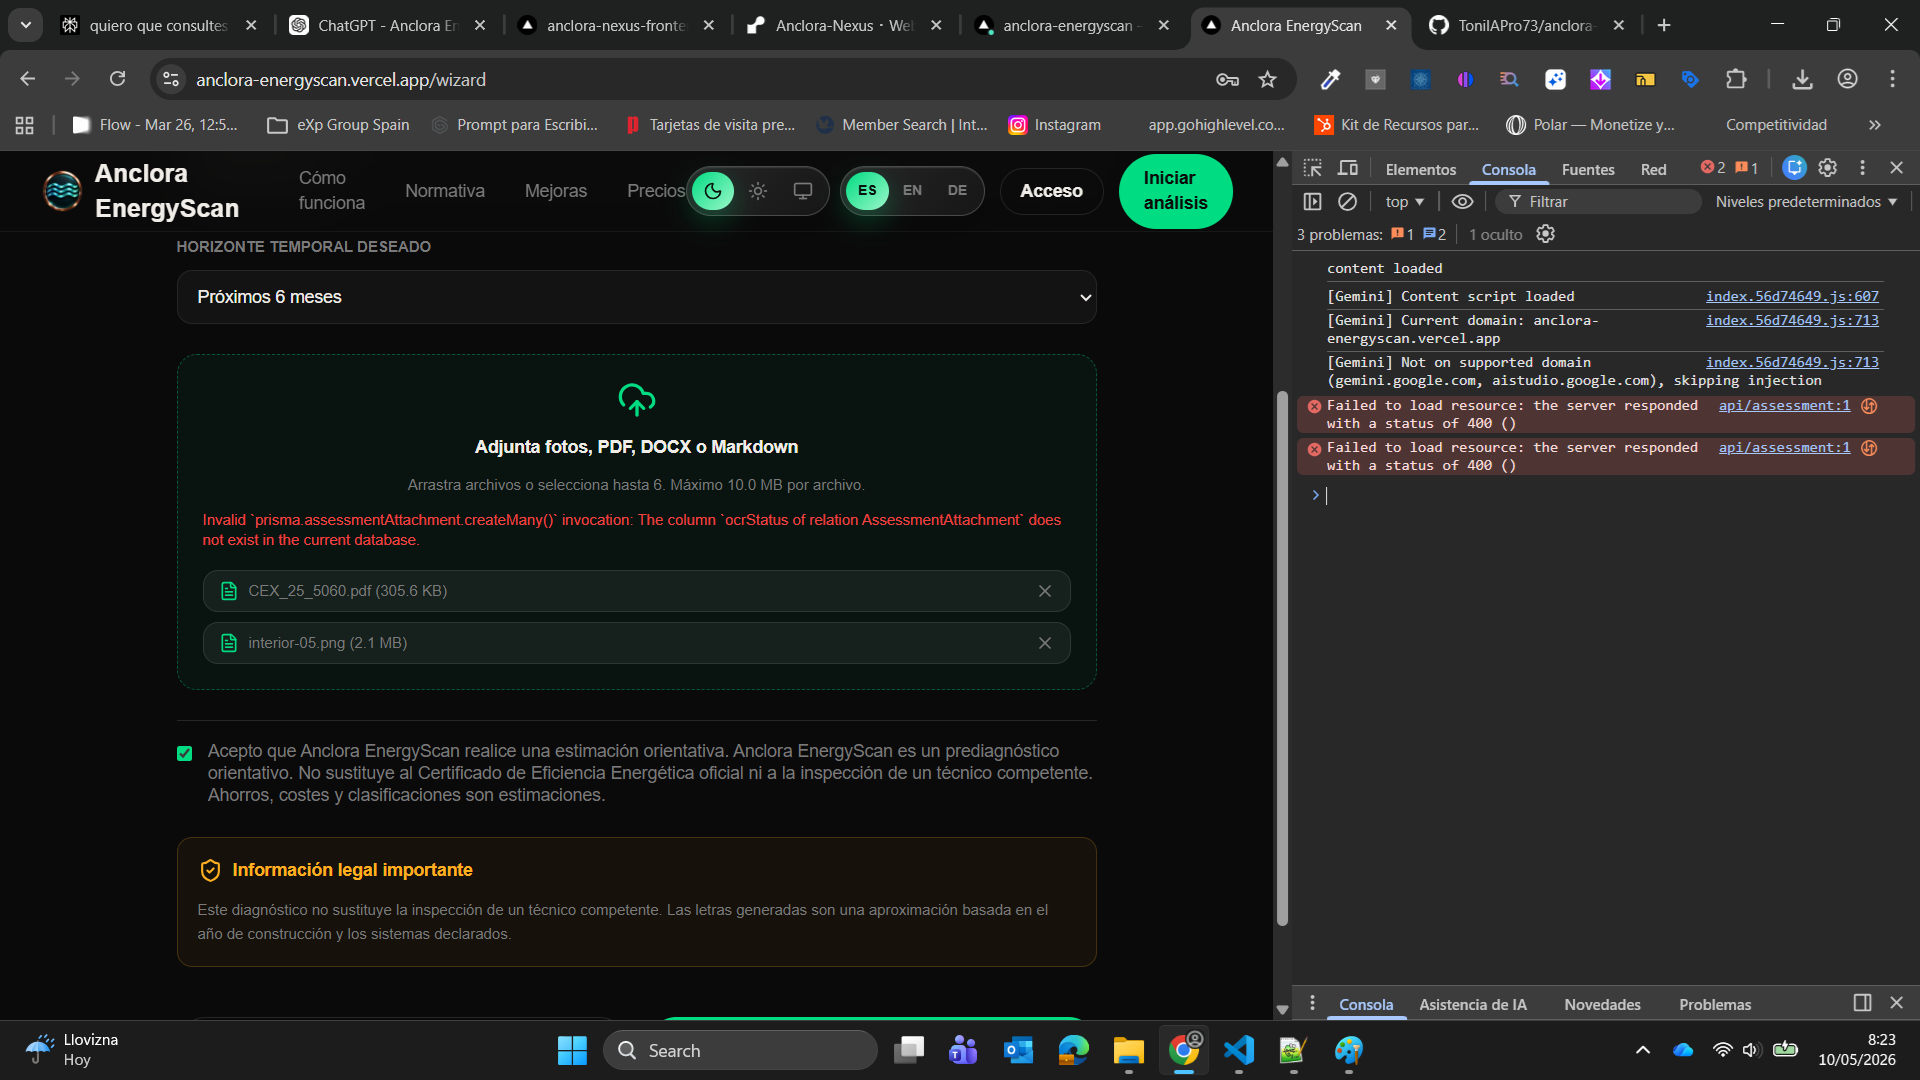
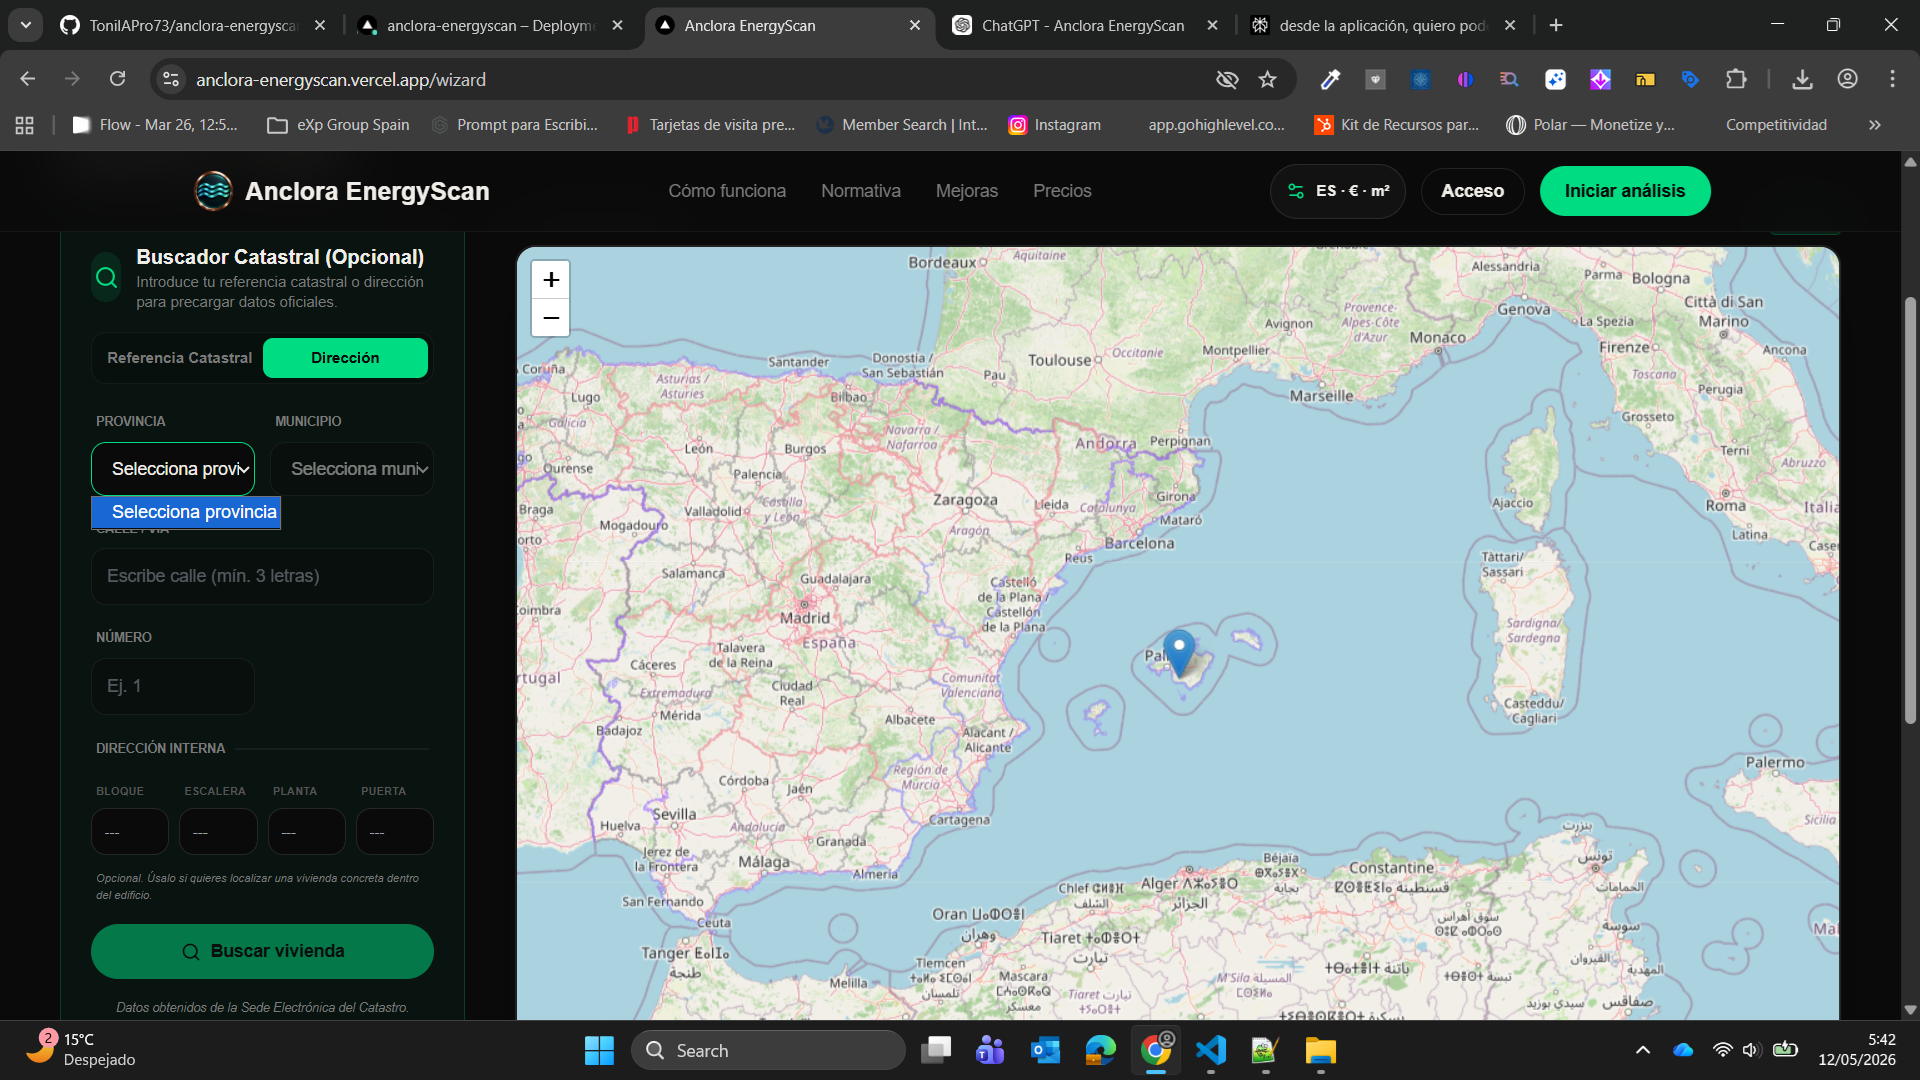
fix: resolve empty province dropdown and improve search dropdowns UX

diff --git a/tests/catastro-normalizer.test.ts b/tests/catastro-normalizer.test.ts
@@ -1,4 +1,4 @@
-import { normalizeCadastralMatch, parseCadastralList } from '@/lib/catastro/normalize';
+import { normalizeCadastralMatch, parseCadastralList, extractTagsValues } from '@/lib/catastro/normalize';
 
 const MOCK_XML_SINGLE = `
 <bico>
@@ -19,67 +19,23 @@ const MOCK_XML_SINGLE = `
 </bico>
 `;
 
-const MOCK_XML_LIST = `
-<rcdnp>
-  <rc>
-    <pc1>6485534</pc1>
-    <pc2>DD6768E</pc2>
-    <car>0003</car>
-    <cc1>Q</cc1>
-    <cc2>D</cc2>
-  </rc>
-  <dt>
-    <np>ILLES BALEARS</np>
-    <nm>PALMA</nm>
-    <locs>
-      <lous>
-        <lourb>
-          <dir>
-            <tv>CL</tv>
-            <nv>MIQUEL ROSSELLO I ALEMANY</nv>
-            <pnp>48</pnp>
-          </dir>
-          <loint>
-            <pt>01</pt>
-            <pu>B</pu>
-          </loint>
-          <dp>07015</dp>
-        </lourb>
-      </lous>
-    </locs>
-  </dt>
-  <bi>
-    <ldbi>RESIDENCIAL</ldbi>
-    <scons>67</scons>
-    <ant>2003</ant>
-  </bi>
-</rcdnp>
+const MOCK_PROVINCES = `
+<provinciero>
+  <prov><np>MADRID</np></prov>
+  <prov><np>BARCELONA</np></prov>
+</provinciero>
 `;
 
 describe('Catastro Normalizer', () => {
+  it('should extract tag values correctly', () => {
+    const values = extractTagsValues(MOCK_PROVINCES, 'np');
+    expect(values).toEqual(['MADRID', 'BARCELONA']);
+  });
+
   it('should normalize a single cadastral match from bico with full RC', () => {
     const match = normalizeCadastralMatch(MOCK_XML_SINGLE);
     expect(match.cadastralReference).toBe('1234567AB1234C0001XA');
     expect(match.parcelReference).toBe('1234567AB1234C');
     expect(match.province).toBe('MADRID');
-    expect(match.municipality).toBe('MADRID');
-    expect(match.address).toBe('CALLE MAYOR, 1');
-    expect(match.propertyUse).toBe('RESIDENCIAL');
-    expect(match.surfaceBuiltM2).toBe(120);
-    expect(match.yearBuilt).toBe(1990);
-  });
-
-  it('should parse a list of cadastral matches with internal address', () => {
-    const matches = parseCadastralList(MOCK_XML_LIST);
-    expect(matches).toHaveLength(1);
-    const match = matches[0];
-    expect(match.cadastralReference).toBe('6485534DD6768E0003QD');
-    expect(match.parcelReference).toBe('6485534DD6768E');
-    expect(match.address).toBe('CL MIQUEL ROSSELLO I ALEMANY, 48');
-    expect(match.floor).toBe('01');
-    expect(match.door).toBe('B');
-    expect(match.surfaceBuiltM2).toBe(67);
-    expect(match.yearBuilt).toBe(2003);
-    expect(match.propertyUse).toBe('RESIDENCIAL');
   });
 });

diff --git a/src/components/CadastreSearch.tsx b/src/components/CadastreSearch.tsx
@@ -24,6 +24,8 @@ export function CadastreSearch({ onConfirm, onLocationChange, onMatchSelect, onA
   // Address search state
   const [provinces, setProvinces] = useState<Province[]>([]);
   const [municipalities, setMunicipalities] = useState<Municipality[]>([]);
+  const [provincesLoading, setProvincesLoading] = useState(false);
+  const [municipalitiesLoading, setMunicipalitiesLoading] = useState(false);
   const [selectedProvince, setSelectedProvince] = useState('');
   const [selectedMunicipality, setSelectedMunicipality] = useState('');
   const [streetQuery, setStreetQuery] = useState('');
@@ -47,6 +49,7 @@ export function CadastreSearch({ onConfirm, onLocationChange, onMatchSelect, onA
   }, [detailMatch, onMatchSelect]);
 
   const fetchProvinces = useCallback(async () => {
+    setProvincesLoading(true);
     try {
       const res = await fetch('/api/catastro/provinces');
       if (res.ok) {
@@ -55,6 +58,8 @@ export function CadastreSearch({ onConfirm, onLocationChange, onMatchSelect, onA
       }
     } catch (err) {
       console.error('Failed to fetch provinces', err);
+    } finally {
+      setProvincesLoading(false);
     }
   }, []);
 
@@ -95,6 +100,7 @@ export function CadastreSearch({ onConfirm, onLocationChange, onMatchSelect, onA
   }, [selectedProvince, selectedMunicipality, selectedStreet, streetQuery, number, onAddressChange]);
 
   async function fetchMunicipalities(province: string) {
+    setMunicipalitiesLoading(true);
     try {
       const res = await fetch(`/api/catastro/municipalities?province=${encodeURIComponent(province)}`);
       if (res.ok) {
@@ -103,6 +109,8 @@ export function CadastreSearch({ onConfirm, onLocationChange, onMatchSelect, onA
       }
     } catch (err) {
       console.error('Failed to fetch municipalities', err);
+    } finally {
+      setMunicipalitiesLoading(false);
     }
   }
 
@@ -255,30 +263,40 @@ export function CadastreSearch({ onConfirm, onLocationChange, onMatchSelect, onA
             <div className="grid grid-cols-1 sm:grid-cols-2 gap-3">
               <div className="space-y-1.5">
                 <label className="text-[10px] font-bold uppercase text-[#7A7A7A] ml-1">Provincia</label>
-                <select
-                  value={selectedProvince}
-                  onChange={(e) => setSelectedProvince(e.target.value)}
-                  className="w-full bg-[#0A0A0A] border border-[#262626] rounded-xl p-3 text-sm focus:border-[#00DC82] outline-none"
-                >
-                  <option value="">Selecciona provincia</option>
-                  {provinces.map((p) => (
-                    <option key={p.id} value={p.id}>{p.name}</option>
-                  ))}
-                </select>
+                <div className="relative">
+                  <select
+                    value={selectedProvince}
+                    onChange={(e) => setSelectedProvince(e.target.value)}
+                    className="w-full bg-[#0A0A0A] border border-[#262626] rounded-xl p-3 text-sm focus:border-[#00DC82] outline-none"
+                  >
+                    <option value="">{provincesLoading ? 'Cargando provincias...' : 'Selecciona provincia'}</option>
+                    {provinces.map((p) => (
+                      <option key={p.id} value={p.id}>{p.name}</option>
+                    ))}
+                  </select>
+                  {provincesLoading && (
+                    <Loader2 className="absolute right-8 top-3 w-4 h-4 animate-spin text-[#00DC82]" />
+                  )}
+                </div>
               </div>
               <div className="space-y-1.5">
                 <label className="text-[10px] font-bold uppercase text-[#7A7A7A] ml-1">Municipio</label>
-                <select
-                  value={selectedMunicipality}
-                  onChange={(e) => setSelectedMunicipality(e.target.value)}
-                  disabled={!selectedProvince}
-                  className="w-full bg-[#0A0A0A] border border-[#262626] rounded-xl p-3 text-sm focus:border-[#00DC82] outline-none disabled:opacity-50"
-                >
-                  <option value="">Selecciona municipio</option>
-                  {municipalities.map((m) => (
-                    <option key={m.id} value={m.id}>{m.name}</option>
-                  ))}
-                </select>
+                <div className="relative">
+                  <select
+                    value={selectedMunicipality}
+                    onChange={(e) => setSelectedMunicipality(e.target.value)}
+                    disabled={!selectedProvince || municipalitiesLoading}
+                    className="w-full bg-[#0A0A0A] border border-[#262626] rounded-xl p-3 text-sm focus:border-[#00DC82] outline-none disabled:opacity-50"
+                  >
+                    <option value="">{municipalitiesLoading ? 'Cargando municipios...' : 'Selecciona municipio'}</option>
+                    {municipalities.map((m) => (
+                      <option key={m.id} value={m.id}>{m.name}</option>
+                    ))}
+                  </select>
+                  {municipalitiesLoading && (
+                    <Loader2 className="absolute right-8 top-3 w-4 h-4 animate-spin text-[#00DC82]" />
+                  )}
+                </div>
               </div>
               <div className="space-y-1.5 sm:col-span-2 relative">
                 <label className="text-[10px] font-bold uppercase text-[#7A7A7A] ml-1">Calle / Vía</label>

diff --git a/src/lib/catastro/normalize.ts b/src/lib/catastro/normalize.ts
@@ -12,11 +12,7 @@ export function extractTagValue(xml: string, tag: string): string {
 export function extractTagsValues(xml: string, tag: string): string[] {
   const regex = new RegExp(`<${tag}[^>]*>([^<]*)</${tag}>`, 'gi');
   const matches = Array.from(xml.matchAll(regex));
-  const values: string[] = [];
-  for (const match of matches) {
-    values.push(match[1].trim());
-  }
-  return values;
+  return matches.map(match => match[1].trim());
 }
 
 /**